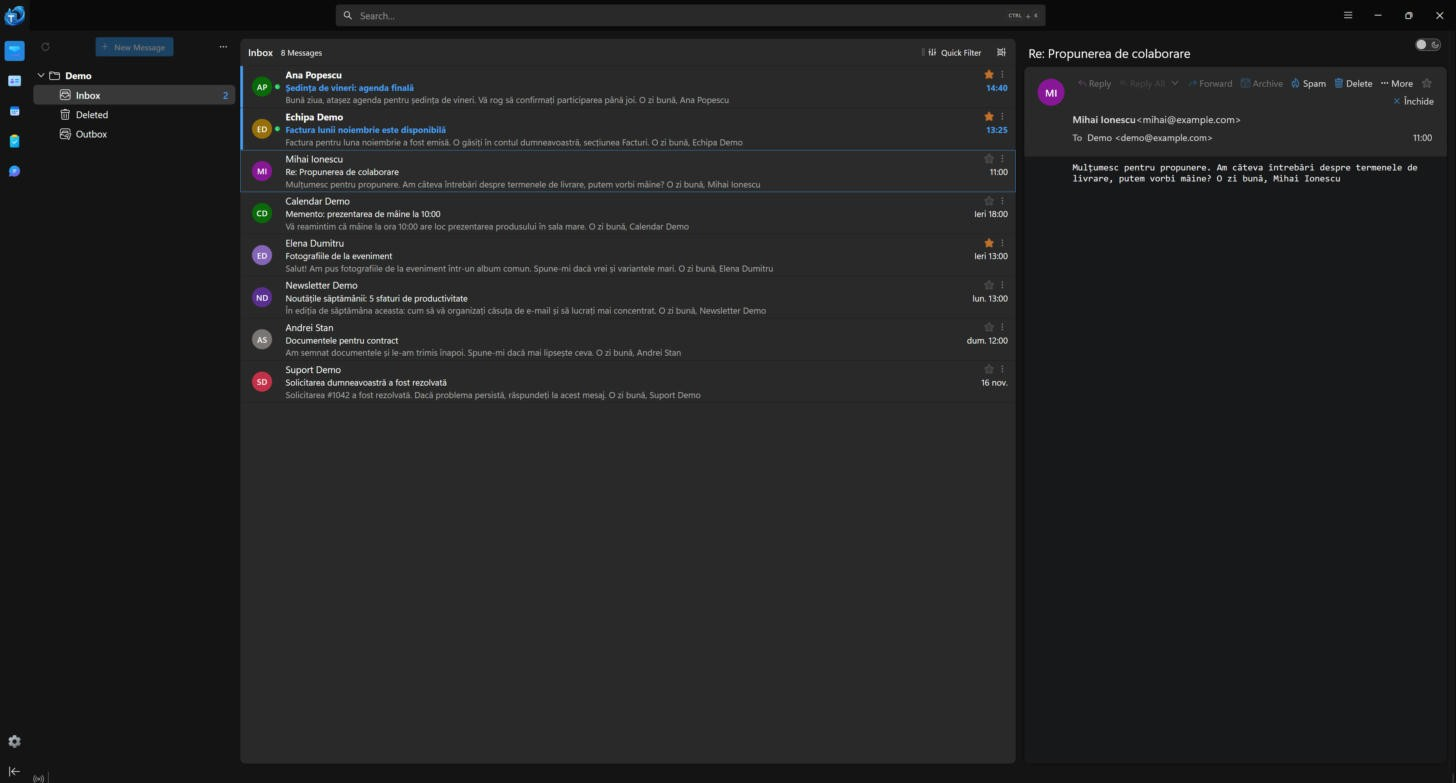
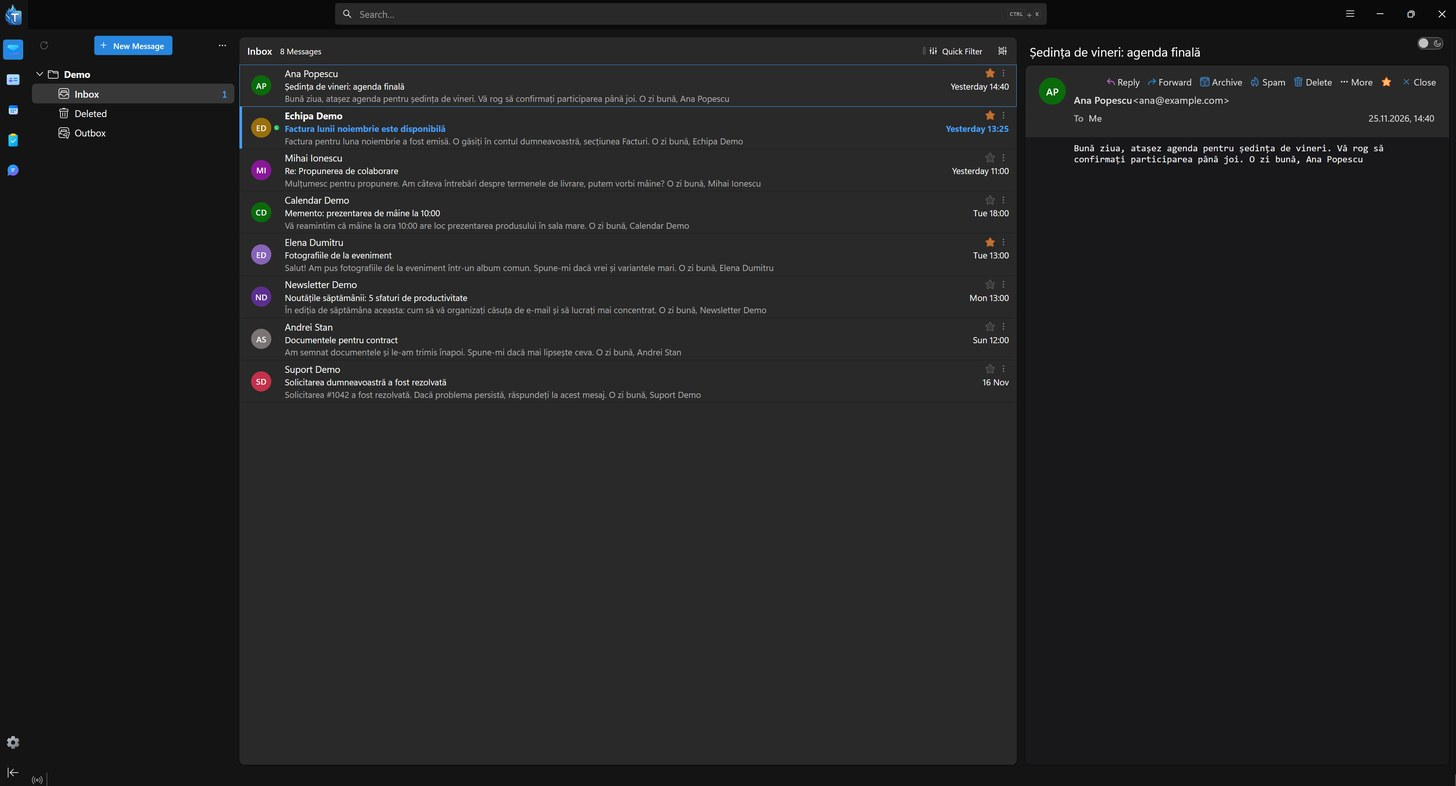
ThunderLook 3.2: iconițe, confidențialitate, capturi noi, validare Wallhaven
- icons în manifest (32-128 px), altfel extensia apărea cu piesa de puzzle
- permisiunea sensitiveDataUpload (Open-Meteo, Wallhaven), cerută de ghidul ATN
- URL-urile Wallhaven validate înainte de CSS și link (test/wallhaven-url.test.js)
- politica de confidențialitate pentru ATN în docs/listare-amo.md; Wallhaven e
  fundalul implicit, textele spun acum asta
- capturi refăcute din profilul demo: engleză în capturi/demo, română în capturi/demo/ro

diff --git a/test/wallhaven-url.test.js b/test/wallhaven-url.test.js
@@ -1,0 +1,17 @@
+// Testeaza wallhavenURL exact cum e in home.js (extrage functia din fisier).
+const fs = require("fs");
+const src = fs.readFileSync(require("path").join(__dirname, "..", "extensie", "home", "home.js"), "utf8");
+const fn = src.match(/function wallhavenURL[\s\S]*?\n}\n/)[0];
+const wallhavenURL = new Function(fn + "; return wallhavenURL;")();
+const ok = ["https://w.wallhaven.cc/full/ab/wallhaven-ab12.jpg", "https://wallhaven.cc/w/ab12"];
+const bad = [
+  "http://w.wallhaven.cc/x.jpg",
+  "https://evilwallhaven.cc/x",
+  'https://w.wallhaven.cc/x").jpg',
+  "javascript:alert(1)",
+  "https://wallhaven.cc.evil.com/x",
+  "https://w.wallhaven.cc/a\\b",
+];
+for (const u of ok) if (!wallhavenURL(u)) throw new Error("respins gresit: " + u);
+for (const u of bad) if (wallhavenURL(u)) throw new Error("acceptat gresit: " + u);
+console.log("teste ok");

diff --git a/extensie/home/home.js b/extensie/home/home.js
@@ -281,9 +281,22 @@ function todayKey() {
   return new Date().toISOString().slice(0, 10);
 }
 
+// doar adrese https de la Wallhaven: URL-ul ajunge in CSS (url("...")) si intr-un link
+function wallhavenURL(u) {
+  try {
+    const url = new URL(u);
+    return url.protocol == "https:" && /(^|\.)wallhaven\.cc$/.test(url.hostname) && !/["'()\s\\]/.test(u);
+  } catch (e) {
+    return false;
+  }
+}
+
 function showPhoto(photo) {
   const bg = $("bg");
   const credit = $("credit");
+  if (photo && !(wallhavenURL(photo.url) && wallhavenURL(photo.pageLink))) {
+    photo = null;
+  }
   if (!photo) {
     bg.style.removeProperty("background-image");
     bg.style.removeProperty("background-position");

diff --git a/docs/listare-amo.md b/docs/listare-amo.md
@@ -21,7 +21,7 @@ reading layout, in Light and Dark.
   actions for read/unread, archive and delete.
 - Reading pane as a sheet, with a "Close" button that brings back the start page.
 - Start page: clock, date, weather with a 3-day forecast (Open-Meteo), your latest starred messages (remove a star with
-  one click) and an optional background image from Wallhaven.
+  one click) and a daily background image from Wallhaven (or the Thunderbird illustration, without any request).
 - Compose window and formatting toolbar restyled, with the font size shown as a number.
 - Light/Dark follows Thunderbird's own toggle; Calendar, Tasks and the Address Book follow the theme.
 - English and Romanian; the language can be chosen on the start page.
@@ -31,7 +31,8 @@ add-on restores the default Thunderbird look.
 
 **Privacy.** ThunderLook does not collect or send any data about you or your messages. Message previews are read
 locally. The start page makes only these requests: Open-Meteo, for the weather of the city you choose (city name and
-coordinates); and, only if you choose it as background, Wallhaven, for an image matching the theme word you set.
+coordinates); and Wallhaven, the default background, for an image matching the theme word you set. Choosing the
+Thunderbird illustration as background stops the Wallhaven requests.
 Settings are stored locally in the add-on.
 
 **Why "full access" (Experiment API).** Thunderbird's regular extension APIs cannot restyle the message list or add the
@@ -42,6 +43,26 @@ the × on the start page.
 Thunderbird is a trademark of mozilla.org. ThunderLook is not part of, endorsed by, sponsored by, or otherwise
 affiliated with Mozilla.org or any other Mozilla entity. Outlook is a trademark of Microsoft Corporation; ThunderLook is
 not affiliated with or endorsed by Microsoft.
+
+**Privacy policy (ATN field, full text):**
+
+ThunderLook does not collect, store or share any personal data on servers of its own; it has none.
+
+Data that leaves your computer, only to provide the start page features:
+- Open-Meteo (open-meteo.com): the latitude and longitude of the city chosen for the weather, to get the forecast,
+  and the city name you type, to look it up (geocoding-api.open-meteo.com). The default city is Bucharest. No
+  account, no identifier.
+- Wallhaven (wallhaven.cc): the default start page background; choosing "Thunderbird illustration" in the start page
+  settings stops these requests. The theme word you set
+  (for example "landscape") is sent to search for an image, and the image is downloaded from wallhaven.cc.
+
+All requests use HTTPS and are made directly from Thunderbird. These services may log your IP address under their own
+privacy policies. ThunderLook sends nothing from your messages, contacts or accounts to anyone: message previews and the
+starred messages on the start page are read locally from Thunderbird. Settings (city, background, theme word, language)
+are stored locally in the add-on's storage and are removed when the add-on is removed.
+
+**Screenshots:** `capturi/demo/*.jpg` (English, for the listing) and `capturi/demo/ro/*.jpg` (Romanian), all from a
+demo profile with made-up messages.
 
 **Categories:** Appearance / Message Reading
 **License:** MIT (code). The ThunderLook logo is not covered by the MIT License.
@@ -57,14 +78,15 @@ un panou de citire liniștit, în Light și Dark.
   La hover: citit/necitit, arhivare și ștergere.
 - Panoul de citire ca o foaie, cu butonul „Închide”, care readuce pagina de start.
 - Pagina de start: ora, data, vremea și prognoza pe 3 zile (Open-Meteo), ultimele mesaje cu steluță (steluța se scoate
-  dintr-un clic) și, opțional, un fundal de pe Wallhaven.
+  dintr-un clic) și un fundal zilnic de pe Wallhaven (sau ilustrația Thunderbird, fără nicio cerere).
 - Fereastra de scriere și bara de formatare refăcute; mărimea fontului e afișată ca număr.
 - Light/Dark urmează comutatorul Thunderbird; Calendarul, Tasks și Agenda urmează tema.
 - Română și engleză; limba se alege din pagina de start.
 
 **Confidențialitate.** ThunderLook nu colectează și nu trimite date despre tine sau despre mesajele tale.
 Previzualizarea mesajelor se citește local. Pagina de start face doar aceste cereri: Open-Meteo, pentru vremea orașului
-ales (numele și coordonatele); și, doar dacă îl alegi ca fundal, Wallhaven, pentru o imagine pe tema aleasă. Setările
+ales (numele și coordonatele); și Wallhaven, fundalul implicit, pentru o imagine pe tema aleasă (alegerea ilustrației
+Thunderbird oprește aceste cereri). Setările
 stau local, în extensie.
 
 Thunderbird is a trademark of mozilla.org. ThunderLook is not part of, endorsed by, sponsored by, or otherwise

diff --git a/README.md b/README.md
@@ -51,7 +51,7 @@ Tema se schimbă pe loc din comutatorul lună/soare din antetul mesajului (Light
 
 ## Confidențialitate
 
-Previzualizarea mesajelor se citește local, din copia offline, fără cereri în rețea, și stă doar în memorie. Pagina de start face cereri doar către Open-Meteo (coordonatele orașului) și, dacă îl alegi, către Wallhaven (tema fotografiilor).
+Previzualizarea mesajelor se citește local, din copia offline, fără cereri în rețea, și stă doar în memorie. Pagina de start face cereri doar către Open-Meteo (coordonatele orașului) și către Wallhaven (tema fotografiilor), fundalul implicit; cu ilustrația Thunderbird ca fundal nu se face nicio cerere către Wallhaven.
 
 ## Credite
 
